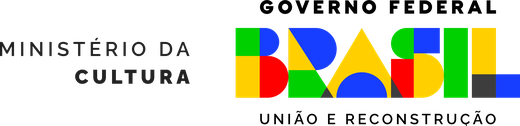
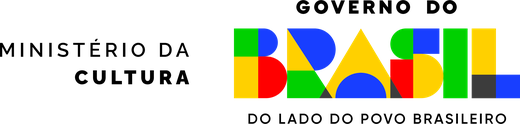
fix: corrige assinaturas da regua institucional

diff --git a/testes/marcas-institucionais.test.ts b/testes/marcas-institucionais.test.ts
@@ -53,7 +53,7 @@ describe("os arquivos derivados existem e conferem", () => {
     },
   );
 
-  test.each(["secretaria-especial-cultura", "snc"])(
+  test.each(["pnab", "snc", "mincultura-governo-federal"])(
     "%s registra a extração da régua oficial do manual",
     (id) => {
       const marca = MARCAS_DERIVADAS.find((candidata) => candidata.id === id);
@@ -62,6 +62,26 @@ describe("os arquivos derivados existem e conferem", () => {
       expect(marca?.original.recorte?.unidade).toBe("ponto_pdf");
     },
   );
+
+  test("a assinatura sergipana vem do lockup conjunto oficial", () => {
+    const marca = MARCAS_DERIVADAS.find(
+      (candidata) => candidata.id === "secretaria-sergipe",
+    );
+    expect(marca?.original.arquivo).toBe(
+      "marcas/SECRETARIA DE CULTURA + GOVERNO DE SERGIPE HORIZONTAL.png",
+    );
+    expect(marca?.entidade).toBe(
+      "Secretaria Especial da Cultura · Governo do Estado de Sergipe",
+    );
+  });
+
+  test("a PNAB antiga e a assinatura federal anterior não são fontes", () => {
+    const origens = MARCAS_DERIVADAS.map((marca) => marca.original.arquivo);
+    expect(origens).not.toContain("marcas/PNAB3.png");
+    expect(origens).not.toContain(
+      "marcas/MINISTERIO DA CULTURA + GOVERNO FEDERAL SEM FUNDO HORIZONTAL.png",
+    );
+  });
 
   /**
    * A proporção do derivado é a da arte do original. Um derivado com outra
@@ -153,7 +173,7 @@ describe("a ordem da régua vem dos manuais", () => {
   test("a assinatura federal é a última marca da régua", () => {
     const ultimo = REGUA_DE_CREDITOS.at(-1);
     expect(ultimo?.marcas.at(-1)?.id).toBe(MARCA_FEDERAL.id);
-    expect(ultimo?.instituicoes.at(-1)).toBe("Governo Federal");
+    expect(ultimo?.instituicoes.at(-1)).toBe("Governo do Brasil");
   });
 
   /**
@@ -179,12 +199,11 @@ describe("a ordem da régua vem dos manuais", () => {
     ]);
   });
 
-  test("FUNCAP, Secretaria e Governo de Sergipe seguem a ordem do manual", () => {
+  test("FUNCAP e a assinatura conjunta de Secretaria/Sergipe seguem o manual", () => {
     const apoio = REGUA_DE_CREDITOS.find((nivel) => nivel.id === "apoio");
     expect(apoio?.marcas.map((marca) => marca.id)).toEqual([
       "funcap",
-      "secretaria-especial-cultura",
-      "governo-sergipe",
+      "secretaria-sergipe",
     ]);
   });
 
@@ -215,7 +234,7 @@ describe("as entidades nomeadas", () => {
     "Governo do Estado de Sergipe",
     "Secretaria Especial da Cultura",
     "Sistema Nacional de Cultura",
-    "Governo Federal",
+    "Governo do Brasil",
   ])("%s é nomeada na régua", (entidade) => {
     expect(nomes).toContain(entidade);
   });
@@ -334,7 +353,9 @@ describe("uma fonte, dois consumidores", () => {
       const servido = ler(caminho)
         .replace(/\/\*[\s\S]*?\*\//g, " ")
         .replace(/^\s*\/\/.*$/gm, " ");
-      expect(servido).not.toMatch(/FUNCAP|PNAB|Aldir Blanc|Governo Federal/);
+      expect(servido).not.toMatch(
+        /FUNCAP|PNAB|Aldir Blanc|Governo Federal|Governo do Brasil/,
+      );
     },
   );
 

diff --git a/testes/a11y/prestacao-axe.spec.ts b/testes/a11y/prestacao-axe.spec.ts
@@ -70,7 +70,7 @@ test.describe("estrutura da página de comprovação", () => {
    * dois blocos e a ordem deles vêm dos manuais oficiais de uso de marca —
    * ver `componentes/institucional/creditos.ts`.
    */
-  test("a régua de créditos é ordenada e fecha no Governo Federal", async ({
+  test("a régua de créditos é ordenada e fecha no Governo do Brasil", async ({
     page,
   }) => {
     /*
@@ -82,21 +82,23 @@ test.describe("estrutura da página de comprovação", () => {
     await expect(regua).toHaveCount(1);
     expect(await regua.evaluate((el) => el.tagName)).toBe("OL");
     await expect(regua.locator("> li")).toHaveCount(2);
-    await expect(regua.locator("> li").last()).toContainText("Governo Federal");
+    await expect(regua.locator("> li").last()).toContainText(
+      "Governo do Brasil",
+    );
   });
 
   /**
-   * As seis marcas oficiais entram aqui desde 2026-09-20, quando os manuais
+   * As cinco assinaturas oficiais entram aqui desde 2026-09-20, quando os manuais
    * foram localizados e lidos. Até então a régua era só texto, e este teste
    * exigia zero imagens — o que estava certo enquanto a aplicação não tinha
    * regra documental para seguir.
    *
-   * O que ele passa a exigir é que as marcas venham **do manifesto**: seis,
+   * O que ele passa a exigir é que as marcas venham **do manifesto**: cinco,
    * servidas de `/media/marcas`, e nenhuma de outra origem.
    */
-  test("os créditos aplicam as seis marcas do manifesto", async ({ page }) => {
+  test("os créditos aplicam as cinco marcas do manifesto", async ({ page }) => {
     const marcas = page.locator("main .regua__marca");
-    await expect(marcas).toHaveCount(6);
+    await expect(marcas).toHaveCount(5);
     const origens = await marcas.evaluateAll((imagens) =>
       imagens.map((img) => img.getAttribute("src") ?? "?"),
     );

diff --git a/testes/a11y/rodape.spec.ts b/testes/a11y/rodape.spec.ts
@@ -57,7 +57,7 @@ test.describe("as marcas institucionais na tela", () => {
   /*
     As marcas carregam com `loading="lazy"` — elas ficam no fim de toda página,
     muito abaixo da primeira dobra, e é isso que mantém o orçamento da Home
-    intacto. Então não basta rolar até lá: é preciso esperar as seis
+    intacto. Então não basta rolar até lá: é preciso esperar as cinco
     decodificarem, ou a asserção corre contra uma imagem ainda em voo.
   */
   test.beforeEach(async ({ page }) => {
@@ -78,12 +78,12 @@ test.describe("as marcas institucionais na tela", () => {
             ),
         { timeout: 10_000 },
       )
-      .toBe(6);
+      .toBe(5);
   });
 
-  test("as seis marcas carregam de fato", async ({ page }) => {
+  test("as cinco marcas carregam de fato", async ({ page }) => {
     const marcas = page.locator(".regua__marca");
-    await expect(marcas).toHaveCount(6);
+    await expect(marcas).toHaveCount(5);
 
     const quebradas = await marcas.evaluateAll((imagens) =>
       imagens
@@ -168,7 +168,7 @@ test.describe("as marcas institucionais na tela", () => {
       "Sistema Nacional de Cultura",
       "Política Nacional Aldir Blanc",
       "Ministério da Cultura",
-      "Governo Federal",
+      "Governo do Brasil",
     ]) {
       expect(texto, entidade).toContain(entidade);
     }

diff --git a/src/componentes/institucional/creditos.ts b/src/componentes/institucional/creditos.ts
@@ -90,7 +90,7 @@ export const REGUA_DE_CREDITOS: readonly NivelDeCredito[] = [
       "Secretaria Especial da Cultura",
       "Governo do Estado de Sergipe",
     ],
-    marcas: marcas("funcap", "secretaria-especial-cultura", "governo-sergipe"),
+    marcas: marcas("funcap", "secretaria-sergipe"),
     tracoAntesDaMarca: null,
   },
   {
@@ -100,7 +100,7 @@ export const REGUA_DE_CREDITOS: readonly NivelDeCredito[] = [
       "Sistema Nacional de Cultura",
       "Política Nacional Aldir Blanc",
       "Ministério da Cultura",
-      "Governo Federal",
+      "Governo do Brasil",
     ],
     marcas: marcas("snc", "pnab", "mincultura-governo-federal"),
     tracoAntesDaMarca: "mincultura-governo-federal",

diff --git a/src/dados/institucional/marcas.ts b/src/dados/institucional/marcas.ts
@@ -62,7 +62,7 @@ export type MarcaDerivada = z.infer<typeof marcaDerivadaSchema>;
 
 export const MARCAS_DERIVADAS: readonly MarcaDerivada[] = z
   .array(marcaDerivadaSchema)
-  .length(6)
+  .length(5)
   .parse(bruto);
 
 /** Caminho público das marcas, servido de `public/media/marcas`. */

diff --git a/scripts/derivar-marcas-institucionais.py b/scripts/derivar-marcas-institucionais.py
@@ -2,25 +2,16 @@
 
 ## O que entra
 
-Seis marcas oficiais de `OBSERVATORIO_FONTES_DIR/marcas/`, escolhidas pelos
+Cinco assinaturas oficiais de `OBSERVATORIO_FONTES_DIR/marcas/`, escolhidas pelos
 manuais e não por conveniência:
 
-- `MINISTERIO DA CULTURA + GOVERNO FEDERAL SEM FUNDO HORIZONTAL.png` — a
-  versão completa e original em cores sólidas. O manual do Governo Federal
-  (v1.2) determina que ela seja usada em **todas as peças exceto impressas**,
-  e uma página web não é peça impressa;
-- `PNAB3.png` — a variante cuja paleta bate exatamente com a do manual da PNAB
-  Sergipe (#FFCF00, #183EFF, #FF0000, #00CF00) e cuja assinatura é azul. A
-  variante de assinatura amarela seria ilegível sobre branco, e PNAB1/PNAB2
-  usam cores que não estão na paleta do manual;
+- as assinaturas atuais da Política Nacional Aldir Blanc e do Ministério da
+  Cultura/Governo do Brasil, extraídas da aplicação horizontal colorida da
+  página 9 do `manual pnab.pdf`;
+- a marca do Sistema Nacional de Cultura — SNC, extraída da mesma aplicação;
 - `FUNCAP-HORIZONTAL.png` — versão colorida, horizontal;
-- `GOVERNO DE SERGIPE HORIZONTAL SEM FUNDO.png` — brasão azul sobre
-  transparência, que é a versão positiva do manual do Governo de Sergipe.
-- a marca isolada da Secretaria Especial da Cultura e a do Sistema Nacional
-  de Cultura — SNC, extraídas da aplicação horizontal colorida da página 9 do
-  `manual pnab.pdf`. Elas existem no corpus como vetores dentro do manual, mas
-  não como arquivos avulsos; os recortes em pontos PDF ficam registrados no
-  manifesto.
+- `SECRETARIA DE CULTURA + GOVERNO DE SERGIPE HORIZONTAL.png` — assinatura
+  conjunta oficial, com tipologia, proporção e espaçamento já compostos.
 
 Os 23 arquivos da pasta são todos 8000x4500 px com transparência e a arte
 centrada numa moldura vazia. Servir um deles numa faixa de rodapé seria
@@ -85,11 +76,10 @@ LARGURA_FEDERAL = 260
 
 # Altura de exibição das demais, em CSS px. Nenhuma ultrapassa a altura nem a
 # largura da federal, que é a regra do manual da PNAB.
-ALTURA_REALIZACAO = 56
 ALTURA_APOIO = 46
 
 # A aplicação horizontal colorida oficial está na página 9 do manual PNAB.
-# Os recortes usam pontos PDF e isolam exatamente as duas marcas que não
+# Os recortes usam pontos PDF e isolam exatamente as marcas atuais que não
 # existem como arquivos avulsos no corpus. A rasterização transparente mantém
 # a arte vetorial e remove apenas o fundo da página.
 PAGINA_REGUA_PNAB = 9
@@ -98,29 +88,44 @@ ESCALA_RENDER_PDF = 6
 MARCAS = [
     {
         "id": "mincultura-governo-federal",
-        "origem": "MINISTERIO DA CULTURA + GOVERNO FEDERAL SEM FUNDO HORIZONTAL.png",
+        "origem": "manual pnab.pdf",
         "arquivo": "minc-governo-federal.webp",
-        "entidade": "Ministério da Cultura · Governo Federal",
+        "entidade": "Ministério da Cultura · Governo do Brasil",
         "bloco": "realizacao",
         "medida": {"tipo": "largura", "valor": LARGURA_FEDERAL},
+        "pagina": PAGINA_REGUA_PNAB,
+        "recorte": {
+            "esquerda": 1255,
+            "inferior": 600,
+            "direita": 200,
+            "superior": 350,
+        },
         "regra": (
-            "Manual de uso da marca do Governo Federal v1.2: versão completa e "
-            "original em cores sólidas para peças não impressas; redução máxima "
-            "em meios eletrônicos de 200 px; última à direita na assinatura "
-            "horizontal."
+            "Manual PNAB Sergipe, página 9, e Manual do Governo Federal v1.2, "
+            "páginas 4–6 e 13–15: assinatura atual Ministério da Cultura/"
+            "Governo do Brasil em RGB; redução máxima em meios eletrônicos de "
+            "200 px; última à direita na assinatura horizontal."
         ),
     },
     {
         "id": "pnab",
-        "origem": "PNAB3.png",
+        "origem": "manual pnab.pdf",
         "arquivo": "pnab.webp",
         "entidade": "Política Nacional Aldir Blanc",
         "bloco": "realizacao",
-        "medida": {"tipo": "altura", "valor": ALTURA_REALIZACAO},
+        "medida": {"tipo": "largura", "valor": 150},
+        "pagina": PAGINA_REGUA_PNAB,
+        "recorte": {
+            "esquerda": 955,
+            "inferior": 625,
+            "direita": 680,
+            "superior": 315,
+        },
         "regra": (
-            "Manual de uso da marca PNAB Sergipe: a marca fica ao lado da "
-            "assinatura Ministério da Cultura/Governo Federal, separada por um "
-            "traço, e não ultrapassa a altura nem a largura da marca federal."
+            "Manual de uso da marca PNAB Sergipe, página 9: a marca oficial "
+            "Aldir Blanc fica ao lado da assinatura Ministério da Cultura/"
+            "Governo do Brasil, separada por um traço, e não ultrapassa a "
+            "altura nem a largura da marca federal."
         ),
     },
     {
@@ -156,36 +161,16 @@ MARCAS = [
         ),
     },
     {
-        "id": "secretaria-especial-cultura",
-        "origem": "manual pnab.pdf",
-        "arquivo": "secretaria-especial-da-cultura.webp",
-        "entidade": "Secretaria Especial da Cultura",
+        "id": "secretaria-sergipe",
+        "origem": "SECRETARIA DE CULTURA + GOVERNO DE SERGIPE HORIZONTAL.png",
+        "arquivo": "secretaria-especial-governo-sergipe.webp",
+        "entidade": "Secretaria Especial da Cultura · Governo do Estado de Sergipe",
         "bloco": "apoio",
-        "medida": {"tipo": "altura", "valor": 27},
-        "pagina": PAGINA_REGUA_PNAB,
-        "recorte": {
-            "esquerda": 420,
-            "inferior": 595,
-            "direita": 1352,
-            "superior": 360,
-        },
+        "medida": {"tipo": "largura", "valor": 210},
         "regra": (
-            "Manual de uso da marca PNAB Sergipe, página 9: a Secretaria "
-            "Especial da Cultura integra o bloco de Apoio na aplicação "
-            "horizontal colorida de uso preferencial."
-        ),
-    },
-    {
-        "id": "governo-sergipe",
-        "origem": "GOVERNO DE SERGIPE HORIZONTAL SEM FUNDO.png",
-        "arquivo": "governo-de-sergipe.webp",
-        "entidade": "Governo do Estado de Sergipe",
-        "bloco": "apoio",
-        "medida": {"tipo": "altura", "valor": ALTURA_APOIO},
-        "regra": (
-            "Manual de uso Governo de Sergipe: versão positiva do brasão, sem "
-            "alteração de cor, diagramação ou proporção, com área de segurança "
-            "preservada e nunca sobre fundo que comprometa a legibilidade."
+            "Manual de uso Governo de Sergipe, páginas 14–16: assinatura "
+            "conjunta horizontal preferencial, com nome da Secretaria em "
+            "caixa alta, proporção e espaçamento oficiais preservados."
         ),
     },
 ]
